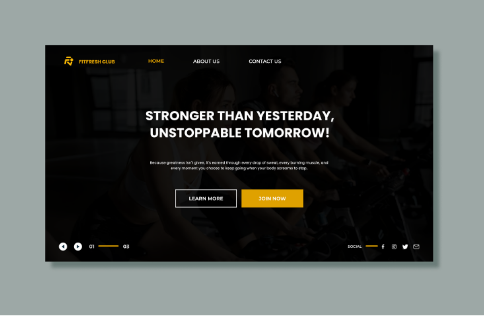
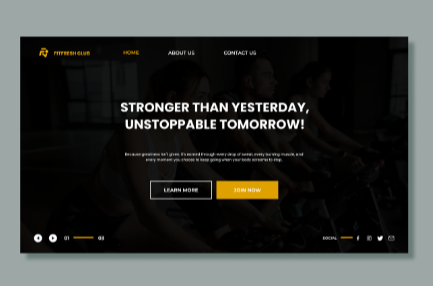
Add project preview images to detail modal

diff --git a/assets/js/main.js b/assets/js/main.js
@@ -4,9 +4,10 @@ const projectsData = [
         id: "dishcovery",
         title: "Dishcovery",
         categories: ["developer", "uiux"],
-        pills: ["LEAD DESIGNER", "FULL-STACK"],
+        pills: ["UIUX DESIGNER", "FULL-STACK"],
         role: "Full-stack Developer & UI/UX Designer (Figma)",
         icon: "fa-regular fa-file-code",
+        image: "assets/images/projects/dishcovery.png",
         description: "Dishcovery is a recipe recommendation web app where users search recipes by name and narrow down results by entering ingredients to include or avoid. Features match percentage scoring and ingredient-avoidance filtering to reduce food waste (SDG 12).",
         learnings: "I learned how to bridge the gap between design and functionality. By working on both UI/UX and full-stack integration, I gained hands-on experience in translating visual interface mockups into working database schemas and backend API endpoints.",
         links: [
@@ -21,6 +22,7 @@ const projectsData = [
         pills: ["ML ENGINEER", "BACKEND LEAD"],
         role: "ML Engineer (EDA) & Backend Lead",
         icon: "fa-solid fa-chart-line",
+        image: "assets/images/projects/loancalc.png",
         description: "A real-time loan approval prediction app powered by Flask and a Gradient Boosting Classifier trained on 4,269 records across 11 financial features. Analyzed OJK's SLIK kolektibilitas (Kol 1–5) and mapped to CIBIL credit score benchmarks.",
         learnings: "This project taught me how to think creatively around real-world constraints when data isn't available, using research and domain knowledge to adapt existing tools and bridge international datasets to local credit frameworks.",
         links: [
@@ -31,10 +33,11 @@ const projectsData = [
     {
         id: "ruangaman",
         title: "RuangAman",
-        categories: ["uiux", "ai"],
+        categories: ["uiux"],
         pills: ["PRODUCT CONCEPT", "UI/UX DESIGN"],
         role: "UI/UX Designer & Requirement Gathering Lead",
         icon: "fa-regular fa-file-shield",
+        image: "assets/images/projects/ruangaman.png",
         description: "An anonymous digital safe-space platform built to empower survivors of sexual harassment of all genders in Indonesia. Designed with privacy by default, AI comment moderation to intercept harmful replies, no public likes, and hotline access.",
         learnings: "I sketched out early designs to explore the problem space and stress-tested requirements with community feedback. I'm passionate about building digital spaces where technology directly protects user well-being and privacy.",
         links: [
@@ -49,6 +52,7 @@ const projectsData = [
         pills: ["UI/UX DESIGN", "FRONTEND"],
         role: "UI/UX Designer (Figma) & Frontend Developer",
         icon: "fa-regular fa-file-lines",
+        image: "assets/images/projects/fitfresh.png",
         description: "FitFresh Club is a web-based fitness platform providing tailored workout programs, yoga sessions, ideal body weight calculator, health blog, and training schedules. Tailored specifically for students and young adults.",
         learnings: "Good UX starts with understanding who you're designing for. Identifying our target users first made structuring content and navigation far more intentional than just building features we thought were useful.",
         links: [
@@ -59,10 +63,11 @@ const projectsData = [
     {
         id: "kelilingi_jawa",
         title: "Kelilingi Jawa",
-        categories: ["uiux", "ai"],
-        pills: ["UI/UX DESIGN", "AI MATCHMAKING"],
+        categories: ["uiux"],
+        pills: ["UI/UX DESIGN"],
         role: "UI/UX Designer & Conceptual Architect",
         icon: "fa-regular fa-compass",
+        image: "assets/images/projects/kelilingi_jawa.png",
         description: "An AI-based open trip matchmaking platform designed for travelers in Java Island. Replaces manual participant grouping with weighted criteria and similarity scoring to pair trip members with matching preferences.",
         learnings: "In conceptual simulations, similarity scoring produced consistently better participant pairings than standard filter methods, demonstrating the impact of intelligent algorithms on user experience in travel social apps.",
         links: [
@@ -73,9 +78,10 @@ const projectsData = [
         id: "shipdeckk",
         title: "ShipDecKK",
         categories: ["uiux"],
-        pills: ["UI/UX DESIGN", "MARITIME PORTAL"],
+        pills: ["UI/UX DESIGN"],
         role: "UI/UX Designer",
         icon: "fa-solid fa-ship",
+        image: "assets/images/projects/shipdeckk.png",
         description: "Website design concept for a maritime enterprise offering ship design, sales, and maintenance. Solves dense industrial navigation by presenting clear core services and guided client contact flows.",
         learnings: "Simplified visual storytelling for industrial sectors by establishing strong visual hierarchy and clear call-to-actions.",
         links: [
@@ -89,6 +95,7 @@ const projectsData = [
         pills: ["AI / NLP", "DEVELOPMENT"],
         role: "AI Developer & NLP Researcher",
         icon: "fa-solid fa-language",
+        image: "assets/images/projects/linguid.png",
         description: "Language identification and text processing system utilizing Natural Language Processing (NLP) techniques to classify language input and extract linguistic features.",
         learnings: "Explored feature extraction techniques for text classification models.",
         links: []
@@ -100,6 +107,7 @@ const projectsData = [
         pills: ["COMPUTER VISION", "RESEARCH"],
         role: "AI Researcher & Model Evaluation Lead",
         icon: "fa-regular fa-file-pdf",
+        image: "assets/images/projects/anemia_cnn.svg",
         description: "Deep learning research applying Convolutional Neural Networks (CNN) for automated anemia detection from biological imagery datasets to assist in early clinical screening.",
         learnings: "Deepened expertise in image preprocessing, dataset augmentation, and optimizing deep convolutional neural network layers for medical image classification.",
         links: [
@@ -113,6 +121,7 @@ const projectsData = [
         pills: ["COMPUTER VISION", "DEEP LEARNING"],
         role: "Computer Vision Specialist",
         icon: "fa-regular fa-file-lines",
+        image: "assets/images/projects/fruits_cnn.svg",
         description: "Computer vision model utilizing Convolutional Neural Networks for multi-class fruit image classification, evaluating model performance across variable lighting, angles, and background conditions.",
         learnings: "Studied feature extraction maps across intermediate convolutional layers and tuned hyperparameters for multi-class classification accuracy.",
         links: [
@@ -128,6 +137,8 @@ const filterBtns = document.querySelectorAll('.filter-btn');
 // Project Modal Elements
 const modal = document.getElementById('project-modal');
 const modalClose = document.getElementById('modal-close');
+const modalImageWrapper = document.getElementById('modal-image-wrapper');
+const modalImg = document.getElementById('modal-img');
 const modalTitle = document.getElementById('modal-title');
 const modalRole = document.getElementById('modal-role');
 const modalPills = document.getElementById('modal-pills');
@@ -184,6 +195,14 @@ function renderProjects(filter = 'all') {
 
 // 4. Modal Functions
 function openModal(project) {
+    if (project.image && modalImg && modalImageWrapper) {
+        modalImg.src = project.image;
+        modalImg.alt = project.title;
+        modalImageWrapper.style.display = 'block';
+    } else if (modalImageWrapper) {
+        modalImageWrapper.style.display = 'none';
+    }
+
     modalTitle.textContent = project.title;
     modalRole.textContent = project.role;
     modalDesc.textContent = project.description;

diff --git a/index.html b/index.html
@@ -179,6 +179,9 @@
     <div class="modal-overlay" id="project-modal">
         <div class="modal-content">
             <button class="modal-close" id="modal-close" aria-label="Close modal">&times;</button>
+            <div class="modal-image-wrapper" id="modal-image-wrapper">
+                <img src="" alt="" id="modal-img" class="modal-img">
+            </div>
             <div class="modal-header">
                 <div class="modal-pills" id="modal-pills"></div>
                 <h2 class="modal-title" id="modal-title">Project Title</h2>

diff --git a/assets/css/style.css b/assets/css/style.css
@@ -733,8 +733,22 @@ img {
     transition: color var(--transition-fast);
 }
 
-.modal-close:hover {
-    color: var(--text-primary);
+.modal-image-wrapper {
+    width: 100%;
+    max-height: 380px;
+    border-radius: 16px;
+    overflow: hidden;
+    background-color: #EAE9E4;
+    margin-bottom: 2rem;
+    box-shadow: 0 8px 24px rgba(0, 0, 0, 0.05);
+}
+
+.modal-img {
+    width: 100%;
+    height: 100%;
+    max-height: 380px;
+    object-fit: cover;
+    display: block;
 }
 
 .modal-header {
